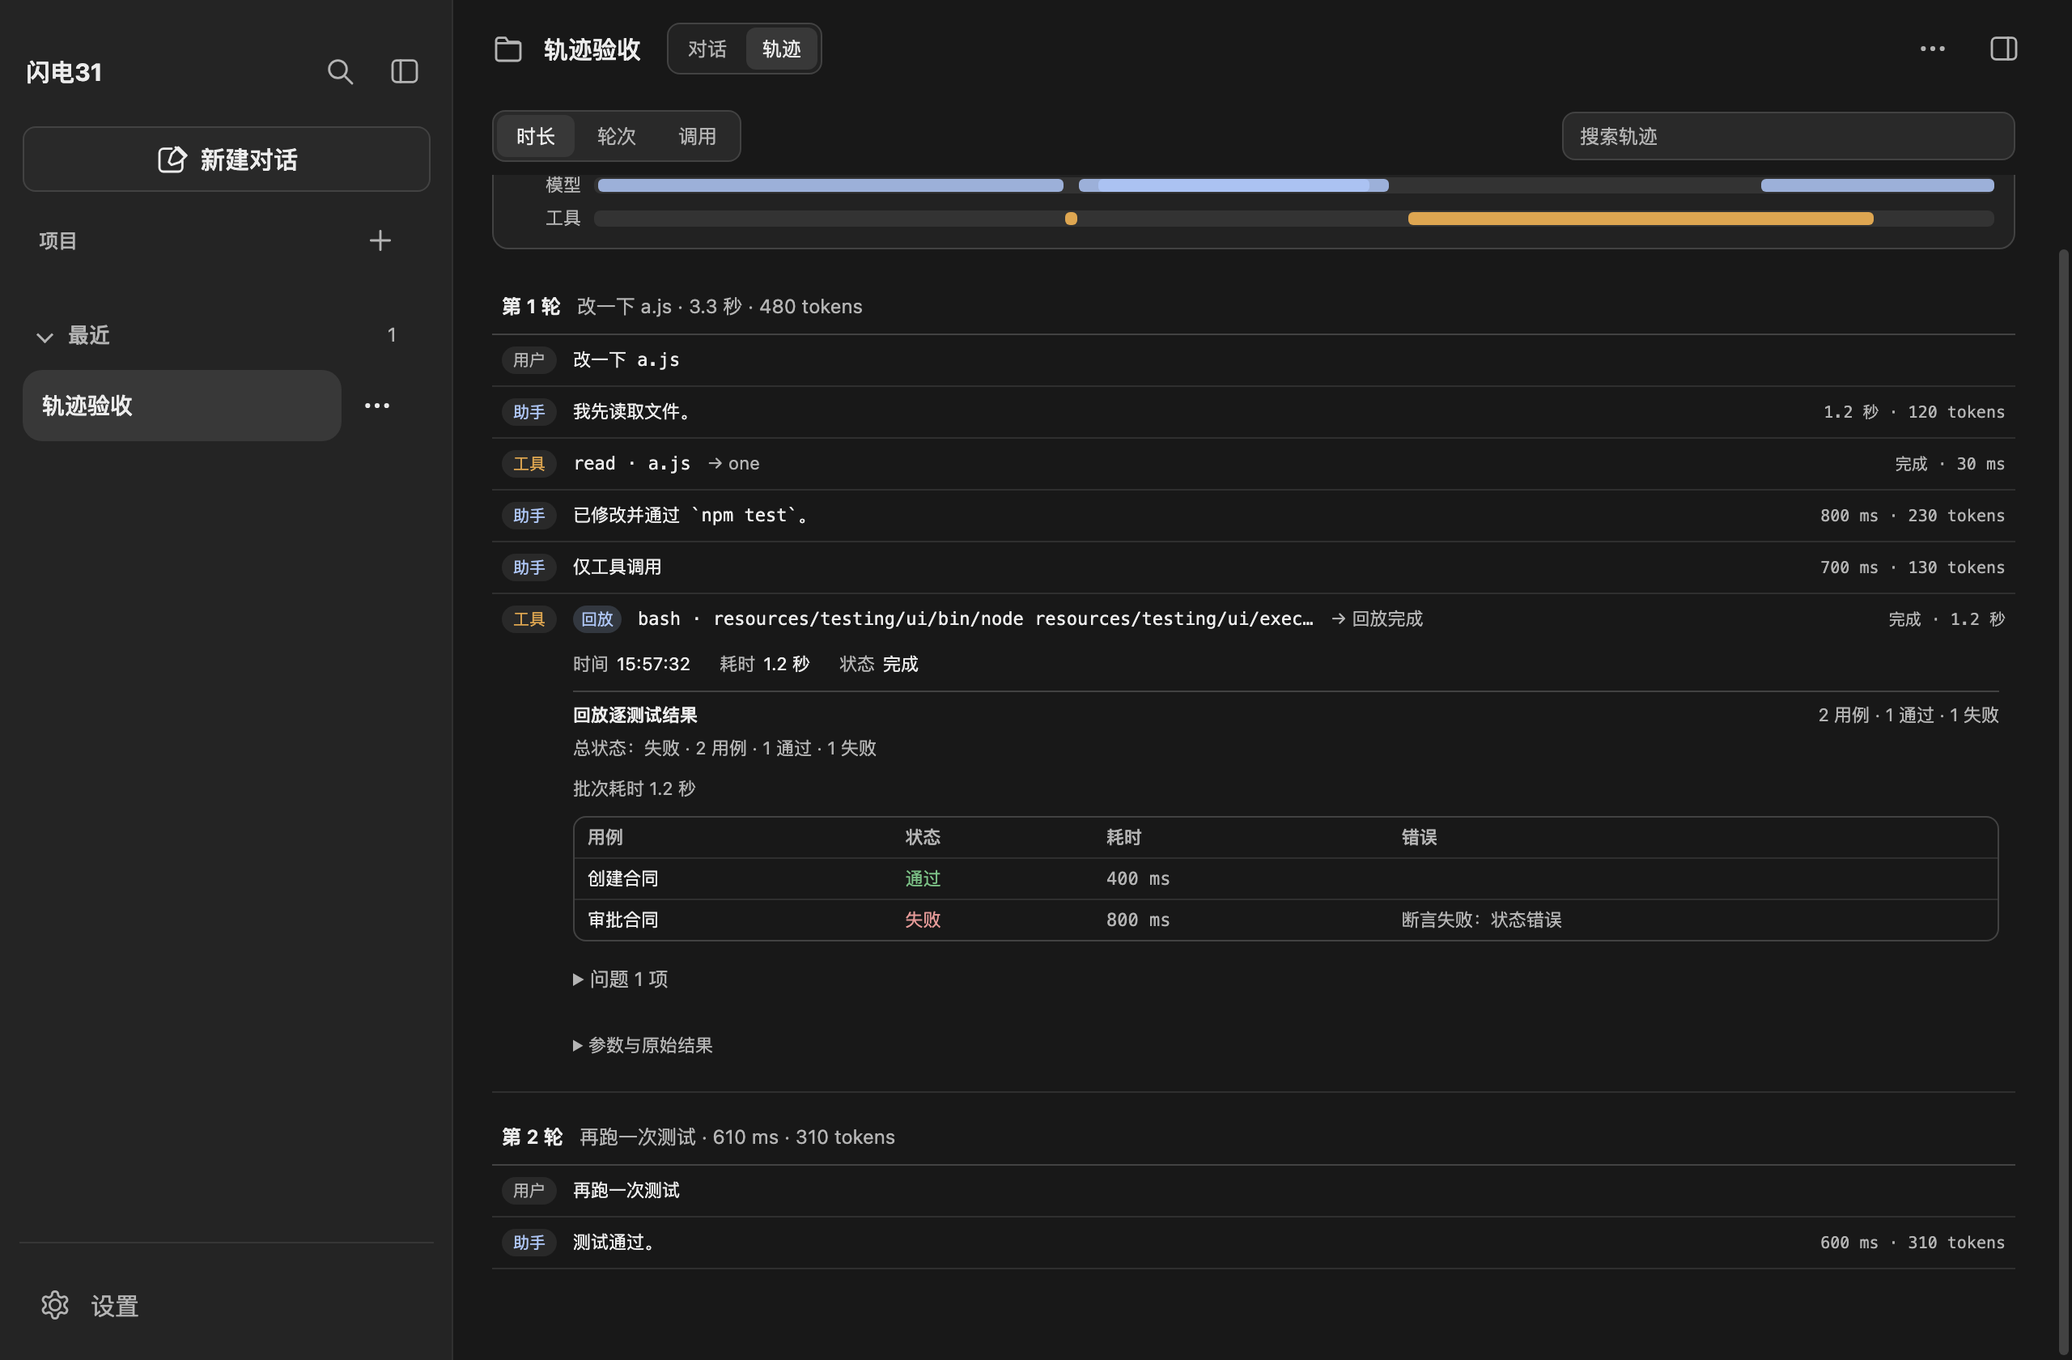
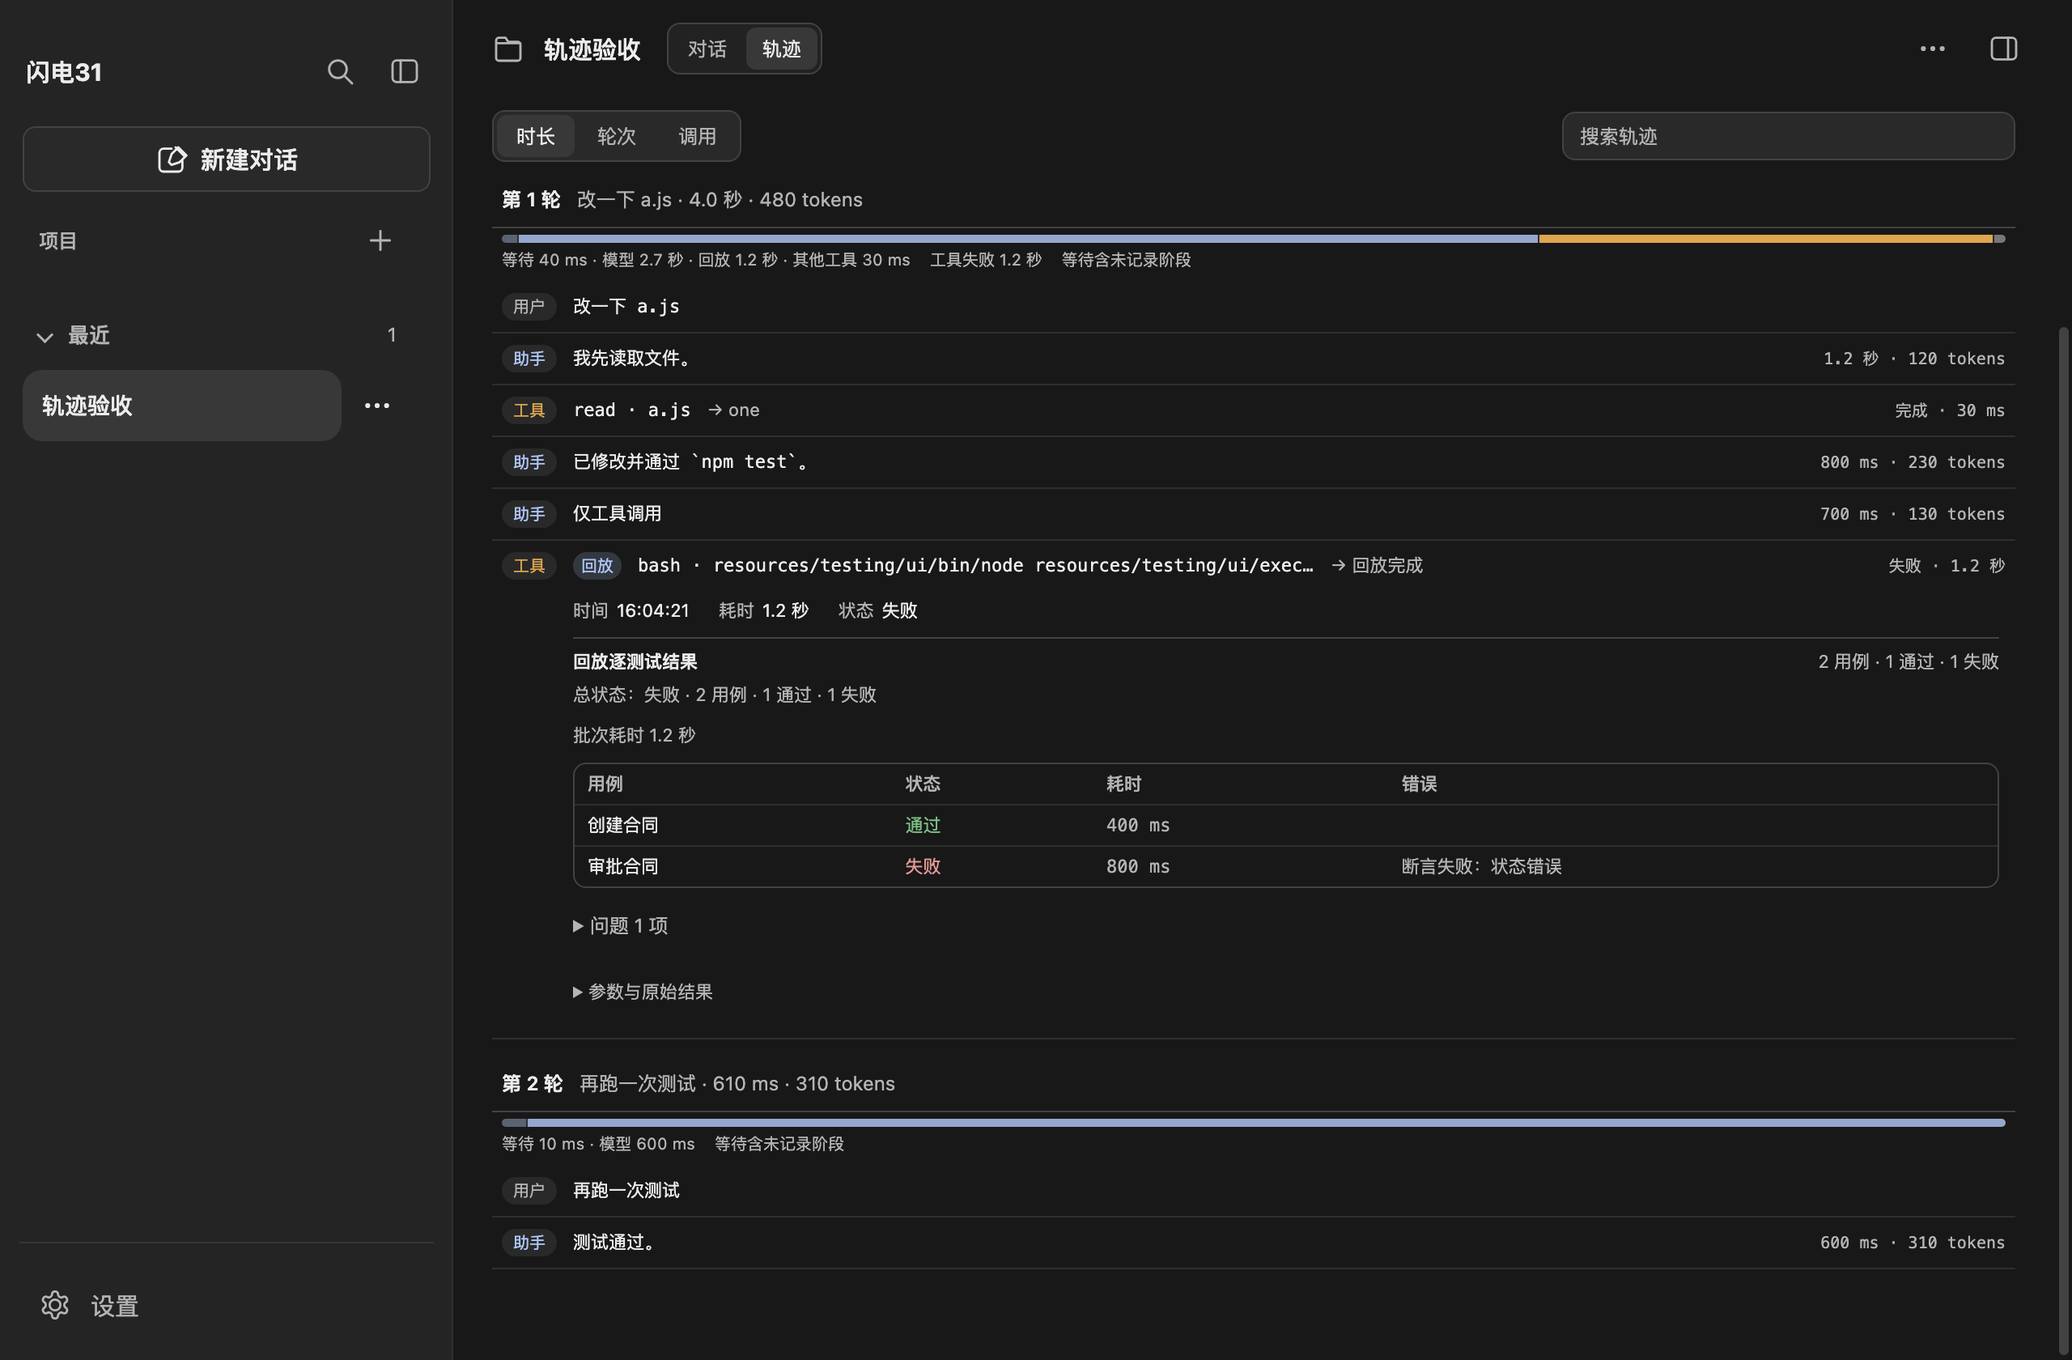
增加每轮耗时构成

diff --git a/src/renderer/components/trajectory-model.js b/src/renderer/components/trajectory-model.js
@@ -86,6 +86,11 @@ export function createTrajectoryModel() {
       records: [],
       usage: { input: 0, output: 0, total: 0 },
       status: "live",
+      source: "live",
+      retryMs: 0,
+      retryCount: 0,
+      compactionMs: 0,
+      compactionStartedAt: null,
     };
     requests.push(request);
     active = request;
@@ -228,15 +233,28 @@ export function createTrajectoryModel() {
       return;
     }
     if (output.type === "auto_retry_start") {
-      addStatus(`模型重试：第 ${output.attempt ?? 1} 次`, output.ts ?? Date.now());
+      const ts = output.ts ?? Date.now();
+      const request = ensureRequest(ts);
+      request.retryMs += Number.isFinite(output.delayMs) ? output.delayMs : 0;
+      request.retryCount += 1;
+      addStatus(`模型重试：第 ${output.attempt ?? 1} 次`, ts);
       return;
     }
     if (output.type === "compaction_start") {
-      addStatus("开始整理上下文", output.ts ?? Date.now());
+      const ts = output.ts ?? Date.now();
+      const request = ensureRequest(ts);
+      request.compactionStartedAt = ts;
+      addStatus("开始整理上下文", ts);
       return;
     }
     if (output.type === "compaction_end") {
-      addStatus(output.aborted ? "上下文整理已取消" : "上下文整理完成", output.ts ?? Date.now());
+      const ts = output.ts ?? Date.now();
+      const request = ensureRequest(ts);
+      if (Number.isFinite(request.compactionStartedAt)) {
+        request.compactionMs += Math.max(0, ts - request.compactionStartedAt);
+        request.compactionStartedAt = null;
+      }
+      addStatus(output.aborted ? "上下文整理已取消" : "上下文整理完成", ts);
       return;
     }
     if (output.type === "agent_settled") {
@@ -315,6 +333,7 @@ export function createTrajectoryModel() {
     }
 
     for (const request of requests) {
+      request.source = "history";
       request.status = "done";
       request.startedAt = request.startedAt
         ?? request.records.find((record) => Number.isFinite(record.ts))?.ts
@@ -324,6 +343,49 @@ export function createTrajectoryModel() {
         ?? null;
     }
     active = null;
+  }
+
+  function isReplayRecord(record) {
+    if (record.kind !== "tool") return false;
+    if (typeof record.summaryFile === "string" && record.summaryFile !== "") return true;
+    const command = record.args?.command;
+    return typeof command === "string" && /(?:^|[\s/])(?:execute\.cjs|playwright\s+test)(?:\s|$)/.test(command);
+  }
+
+  function timingOf(request) {
+    let modelMs = 0;
+    let toolMs = 0;
+    let replayMs = 0;
+    let toolErrorMs = 0;
+    for (const record of request.records) {
+      const duration = Number.isFinite(record.durationMs) ? Math.max(0, record.durationMs) : 0;
+      if (record.kind === "assistant") modelMs += duration;
+      else if (record.kind === "tool") {
+        toolMs += duration;
+        if (isReplayRecord(record)) replayMs += duration;
+        if (record.isError) toolErrorMs += duration;
+      }
+    }
+    const retryMs = Number.isFinite(request.retryMs) ? Math.max(0, request.retryMs) : 0;
+    const compactionMs = Number.isFinite(request.compactionMs) ? Math.max(0, request.compactionMs) : 0;
+    const hasWindow = Number.isFinite(request.startedAt) && Number.isFinite(request.endedAt) && request.endedAt > request.startedAt;
+    const known = modelMs + toolMs + retryMs + compactionMs;
+    const totalMs = hasWindow ? Math.max(request.endedAt - request.startedAt, 0) : known;
+    const waitingMs = hasWindow ? Math.max(0, totalMs - known) : 0;
+    return {
+      totalMs,
+      waitingMs,
+      modelMs,
+      toolMs,
+      replayMs,
+      toolOtherMs: Math.max(0, toolMs - replayMs),
+      toolErrorMs,
+      retryMs,
+      retryCount: request.retryCount ?? 0,
+      compactionMs,
+      source: request.source === "history" ? "history" : "live",
+      available: hasWindow || known > 0,
+    };
   }
 
   function snapshot() {
@@ -341,6 +403,7 @@ export function createTrajectoryModel() {
       sessionId,
       requests: requests.map((request) => ({
         ...request,
+        timing: timingOf(request),
         records: request.records.map((record) => ({ ...record })),
       })),
       hasTimeline: records.some((record) => Number.isFinite(record.ts)),

diff --git a/src/renderer/components/trajectory-view.js b/src/renderer/components/trajectory-view.js
@@ -459,12 +459,54 @@ export function createTrajectoryView(container, options = {}) {
     return details;
   }
 
+  function renderComposition(request) {
+    const timing = request.timing;
+    if (!timing?.available || !(timing.totalMs > 0)) return null;
+    const segments = [
+      ["wait", timing.waitingMs, "等待"],
+      ["model", timing.modelMs, "模型"],
+      ["replay", timing.replayMs, "回放"],
+      ["tool", timing.toolOtherMs, "其他工具"],
+      ["retry", timing.retryMs, "重试"],
+      ["compaction", timing.compactionMs, "整理"],
+    ].filter(([, value]) => Number.isFinite(value) && value > 0);
+    if (segments.length === 0) return null;
+    const total = segments.reduce((sum, [, value]) => sum + value, 0);
+    const box = element("div", "traj-composition");
+    box.setAttribute("aria-label", "本轮耗时构成");
+    box.title = timing.source === "history"
+      ? "历史记录只能从消息间隔推算等待，队列、审批和重试可能混在其中。"
+      : "等待为界面观察的模型排队/审批/间隙；模型和工具耗时优先使用 SDK 记录。";
+
+    const bar = element("div", "traj-composition__bar");
+    for (const [kind, value, label] of segments) {
+      const segment = element("span", `traj-composition__seg traj-composition__seg--${kind}`);
+      segment.style.width = `${(value / total) * 100}%`;
+      segment.title = `${label} ${formatDuration(value)}`;
+      bar.append(segment);
+    }
+    box.append(bar);
+
+    const legend = element("div", "traj-composition__legend");
+    legend.append(element("span", "", segments.map(([, value, label]) => `${label} ${formatDuration(value)}`).join(" · ")));
+    if (timing.toolErrorMs > 0) {
+      legend.append(element("span", "traj-composition__badge", `工具失败 ${formatDuration(timing.toolErrorMs)}`));
+    }
+    if (timing.source === "history") {
+      legend.append(element("span", "traj-composition__badge", "等待含未记录阶段"));
+    }
+    box.append(legend);
+    return box;
+  }
+
   function renderTime() {
     for (const request of snapshot.requests) {
       const activeQuery = normalizedQuery();
       if (requestMatches(request, activeQuery) || request.records.some((record) => recordMatches(record, activeQuery))) {
         const section = element("section", "traj-section");
         section.append(requestHeader(request));
+        const composition = renderComposition(request);
+        if (composition) section.append(composition);
         for (const record of request.records) {
           if (!requestMatches(request, activeQuery) && !recordMatches(record, activeQuery)) continue;
           if (rendered >= MAX_RENDERED_RECORDS) return;
@@ -490,6 +532,8 @@ export function createTrajectoryView(container, options = {}) {
       if (visible.length === 0 && !requestMatches(request, activeQuery)) continue;
       if (rendered >= MAX_RENDERED_RECORDS) return;
       const details = requestHeader(request, { collapsible: true });
+      const composition = renderComposition(request);
+      if (composition) details.append(composition);
       for (const record of visible) {
         if (rendered >= MAX_RENDERED_RECORDS) return;
         rendered += 1;
@@ -512,6 +556,8 @@ export function createTrajectoryView(container, options = {}) {
       if (tools.length === 0) continue;
       const section = element("section", "traj-section");
       section.append(requestHeader(request));
+      const composition = renderComposition(request);
+      if (composition) section.append(composition);
       for (const record of tools) {
         if (rendered >= MAX_RENDERED_RECORDS) return;
         rendered += 1;

diff --git a/tests/unit/trajectory-model.test.js b/tests/unit/trajectory-model.test.js
@@ -178,3 +178,65 @@ test("历史结束时未返回结果的工具调用标记为未确认", async ()
   assert.equal(tool.status, "unfinished");
   assert.deepEqual(tool.args, { command: "sleep 99" });
 });
+
+test("历史耗时构成按等待、模型、工具、回放和失败拆分", async () => {
+  const trajectory = await model();
+  trajectory.loadHistory([
+    { role: "user", text: "执行", ts: 0 },
+    {
+      role: "assistant",
+      output: {
+        role: "assistant", ts: 10, durationMs: 100,
+        content: [{ type: "toolCall", id: "c1", name: "bash", arguments: { command: "node resources/testing/ui/execute.cjs" } }],
+      },
+    },
+    {
+      role: "tool",
+      output: {
+        role: "toolResult", ts: 110, durationMs: 10, toolCallId: "c1", toolName: "bash",
+        summaryFile: "/work/qa/ui/runs/r/summary.json", isError: true,
+        content: [{ type: "text", text: "fail" }],
+      },
+    },
+    { role: "user", text: "继续", ts: 1000 },
+    { role: "assistant", output: { role: "assistant", ts: 1010, durationMs: 50, content: [{ type: "text", text: "ok" }] } },
+  ]);
+  const [first, second] = trajectory.snapshot().requests;
+  assert.deepEqual(first.timing, {
+    totalMs: 120,
+    waitingMs: 10,
+    modelMs: 100,
+    toolMs: 10,
+    replayMs: 10,
+    toolOtherMs: 0,
+    toolErrorMs: 10,
+    retryMs: 0,
+    retryCount: 0,
+    compactionMs: 0,
+    source: "history",
+    available: true,
+  });
+  assert.equal(second.timing.waitingMs, 10);
+  assert.equal(second.timing.modelMs, 50);
+});
+
+test("实时重试与整理进入耗时构成", async () => {
+  const trajectory = await model();
+  const base = Date.now();
+  trajectory.beginRequest("重试");
+  trajectory.accept({
+    type: "message_end",
+    message: { role: "assistant", ts: base + 10, durationMs: 100, content: [{ type: "text", text: "first" }] },
+  });
+  trajectory.accept({ type: "auto_retry_start", attempt: 1, maxAttempts: 3, delayMs: 50, ts: base + 120 });
+  trajectory.accept({ type: "compaction_start", ts: base + 200 });
+  trajectory.accept({ type: "compaction_end", ts: base + 300, aborted: false });
+  trajectory.accept({ type: "agent_settled", aborted: false, ts: base + 300 });
+  trajectory.endRequest();
+  const timing = trajectory.snapshot().requests[0].timing;
+  assert.equal(timing.retryMs, 50);
+  assert.equal(timing.retryCount, 1);
+  assert.equal(timing.compactionMs, 100);
+  assert.equal(timing.modelMs, 100);
+  assert.equal(timing.source, "live");
+});

diff --git a/src/renderer/styles/trajectory.css b/src/renderer/styles/trajectory.css
@@ -634,3 +634,67 @@
     max-width: 160px;
   }
 }
+
+/* 每轮耗时构成：等待/模型/回放/其他工具/重试/整理的堆叠条。 */
+.traj-composition {
+  margin: 4px 6px 6px;
+}
+
+.traj-composition__bar {
+  display: flex;
+  gap: 1px;
+  width: 100%;
+  height: 5px;
+  overflow: hidden;
+  border-radius: 999px;
+  background: color-mix(in srgb, var(--border) 55%, transparent);
+}
+
+.traj-composition__seg {
+  height: 100%;
+  min-width: 2px;
+}
+
+.traj-composition__seg--wait {
+  background: color-mix(in srgb, var(--focus) 35%, transparent);
+}
+
+.traj-composition__seg--model {
+  background: color-mix(in srgb, var(--focus) 80%, transparent);
+}
+
+.traj-composition__seg--replay {
+  background: light-dark(#b7791f, #e8a33d);
+}
+
+.traj-composition__seg--tool {
+  background: color-mix(in srgb, var(--muted) 55%, transparent);
+}
+
+.traj-composition__seg--retry {
+  background: light-dark(#b42318, #f09595);
+}
+
+.traj-composition__seg--compaction {
+  background: light-dark(#1a7f37, #63c27f);
+}
+
+.traj-composition__legend {
+  display: flex;
+  flex-wrap: wrap;
+  gap: 4px 12px;
+  margin-top: 3px;
+  color: var(--muted);
+  font-size: 10px;
+}
+
+.traj-composition__badge {
+  color: var(--muted);
+  font-size: 10px;
+}
+
+@media (max-width: 760px) {
+  .traj-composition {
+    margin-inline: 0;
+  }
+}

diff --git a/src/main/adapters/output-event-adapter.js b/src/main/adapters/output-event-adapter.js
@@ -206,6 +206,7 @@ function createOutputEventAdapter(getSession, parseSkillBlock, input) {
     }
     if (["auto_retry_start", "auto_retry_end", "compaction_start", "compaction_end"].includes(event.type)) {
       return { type: event.type, attempt: event.attempt, maxAttempts: event.maxAttempts,
+        delayMs: Number.isFinite(event.delayMs) ? event.delayMs : undefined,
         reason: event.reason, aborted: event.aborted, success: event.success, willRetry: event.willRetry,
         failed: Boolean(event.errorMessage) };
     }

diff --git a/docs/trajectory-view.md b/docs/trajectory-view.md
@@ -13,6 +13,7 @@
 ## 功能
 
 - **时长概览**：输入/等待、模型、工具三行，按真实开始时间在会话时间轴上画条；悬停显示记录名称、开始时刻与耗时。时间轴刻度为相对会话首条记录的时间。
+- **每轮耗时构成**：在轮次标题下用堆叠条展示等待、模型、回放、其他工具、重试、整理；同时标出工具失败耗时。实时请求能区分重试和整理；历史只能从消息间隔推算等待，队列、审批和重试可能混在等待里，界面会标注「等待含未记录阶段」。
 - **三种视图**：
   - 时长：全部记录按时间顺序展示，带轮次分隔。
   - 轮次：按用户消息分组，可折叠每一轮。
@@ -36,7 +37,8 @@
 | 能力 | DSH | 本项目 | 结论 |
 | --- | --- | --- | --- |
 | 入口 | 对话视图环的「轨迹」标签 | 对话头部「对话/轨迹」切换 | 等价 |
-| 时间概览 | 输入/模型/工具，按真实时间投影；TTFT 与解码分段；悬停详情、拖选过滤、滚轮缩放、右键清除/平移 | 输入/模型/工具三行，按 `ts`/耗时画条；悬停提示；点击条或轨道空白处定位记录；无 TTFT 分段、拖选与缩放 | 部分实现 |
+| 时间概览 | 输入/模型/工具，按真实时间投影；TTFT 与解码分段；悬停详情、拖选过滤、滚轮缩放、右键清除/平移 | 输入/模型/工具三行，按 `ts`/耗时画条；每轮另加等待/模型/回放/其他工具/重试/整理的堆叠构成；悬停提示；点击条或轨道空白处定位记录；无 TTFT 分段、拖选与缩放 | 部分实现 |
+| 耗时构成 | 时间条与检查器提供分段时间；不区分 QA 回放 | 每轮堆叠条与图例；实时区分重试/整理，历史标注未记录阶段；回放与工具失败单列 | 项目增量 |
 | 记录表 | 按轮次/步骤组织，用户、助手、工具、嵌套子工具、压缩记录；虚拟化与分页 | 按用户消息分轮，用户、助手、工具、状态记录；无分页/虚拟化 | 部分实现 |
 | 时长/轮次/调用 | 顶部切换记录组织方式 | 三种视图切换 | 等价意图 |
 | 记录检查器 | 选中记录打开侧栏检查器，显示 token、耗时、输入/输出、图片与附件 | 行内展开：参数、结果、正文、思考、usage、父子调用；回放记录额外列出逐测试耗时/错误 | 部分实现（回放统计为 QA 业务增量） |
@@ -62,7 +64,7 @@
 
 | 位置 | 职责 |
 | --- | --- |
-| `src/renderer/components/trajectory-model.js` | 历史/实时投影为请求与记录 |
+| `src/renderer/components/trajectory-model.js` | 历史/实时投影为请求与记录，计算等待/模型/工具/重试/整理构成 |
 | `src/renderer/components/trajectory-view.js` | 时长概览、三种视图、搜索、详情、回放统计与定位滚动 |
 | `src/main/services/replay-stats-service.js` | 校验并读取 `qa/{ui,api}/runs/**/summary.json` |
 | `src/main/ipc/agent-ipc.js`、`src/preload/preload.js` | 回放统计只读接口 |
@@ -78,6 +80,6 @@ node --test tests/unit/trajectory-model.test.js tests/unit/message-adapter.test.
 node_modules/.bin/electron tests/ui/trajectory.check.cjs
 ```
 
-页面检查覆盖：对话/轨迹切换、隐藏输入区、时长概览三行与时间轴、轮次/调用视图、搜索、工具详情、回放逐测试统计、点击时长条定位、跟随/回到最新、实时请求进入轨迹、切回对话，以及 680/375 窄窗无页面级横向溢出。全量单元回归 789 项通过。截图由该检查生成。
+页面检查覆盖：对话/轨迹切换、隐藏输入区、时长概览三行与时间轴、每轮耗时构成、轮次/调用视图、搜索、工具详情、回放逐测试统计、点击时长条/轨道定位、跟随/回到最新、实时请求进入轨迹、切回对话，以及 680/375 窄窗无页面级横向溢出。全量单元回归 792 项通过。截图由该检查生成。
 
 边界：手机窄屏未单独验收；真实模型下的长会话、图片附件和旧历史时间戳缺失尚未人工验收；自动检查使用模拟历史与事件，不请求模型。
